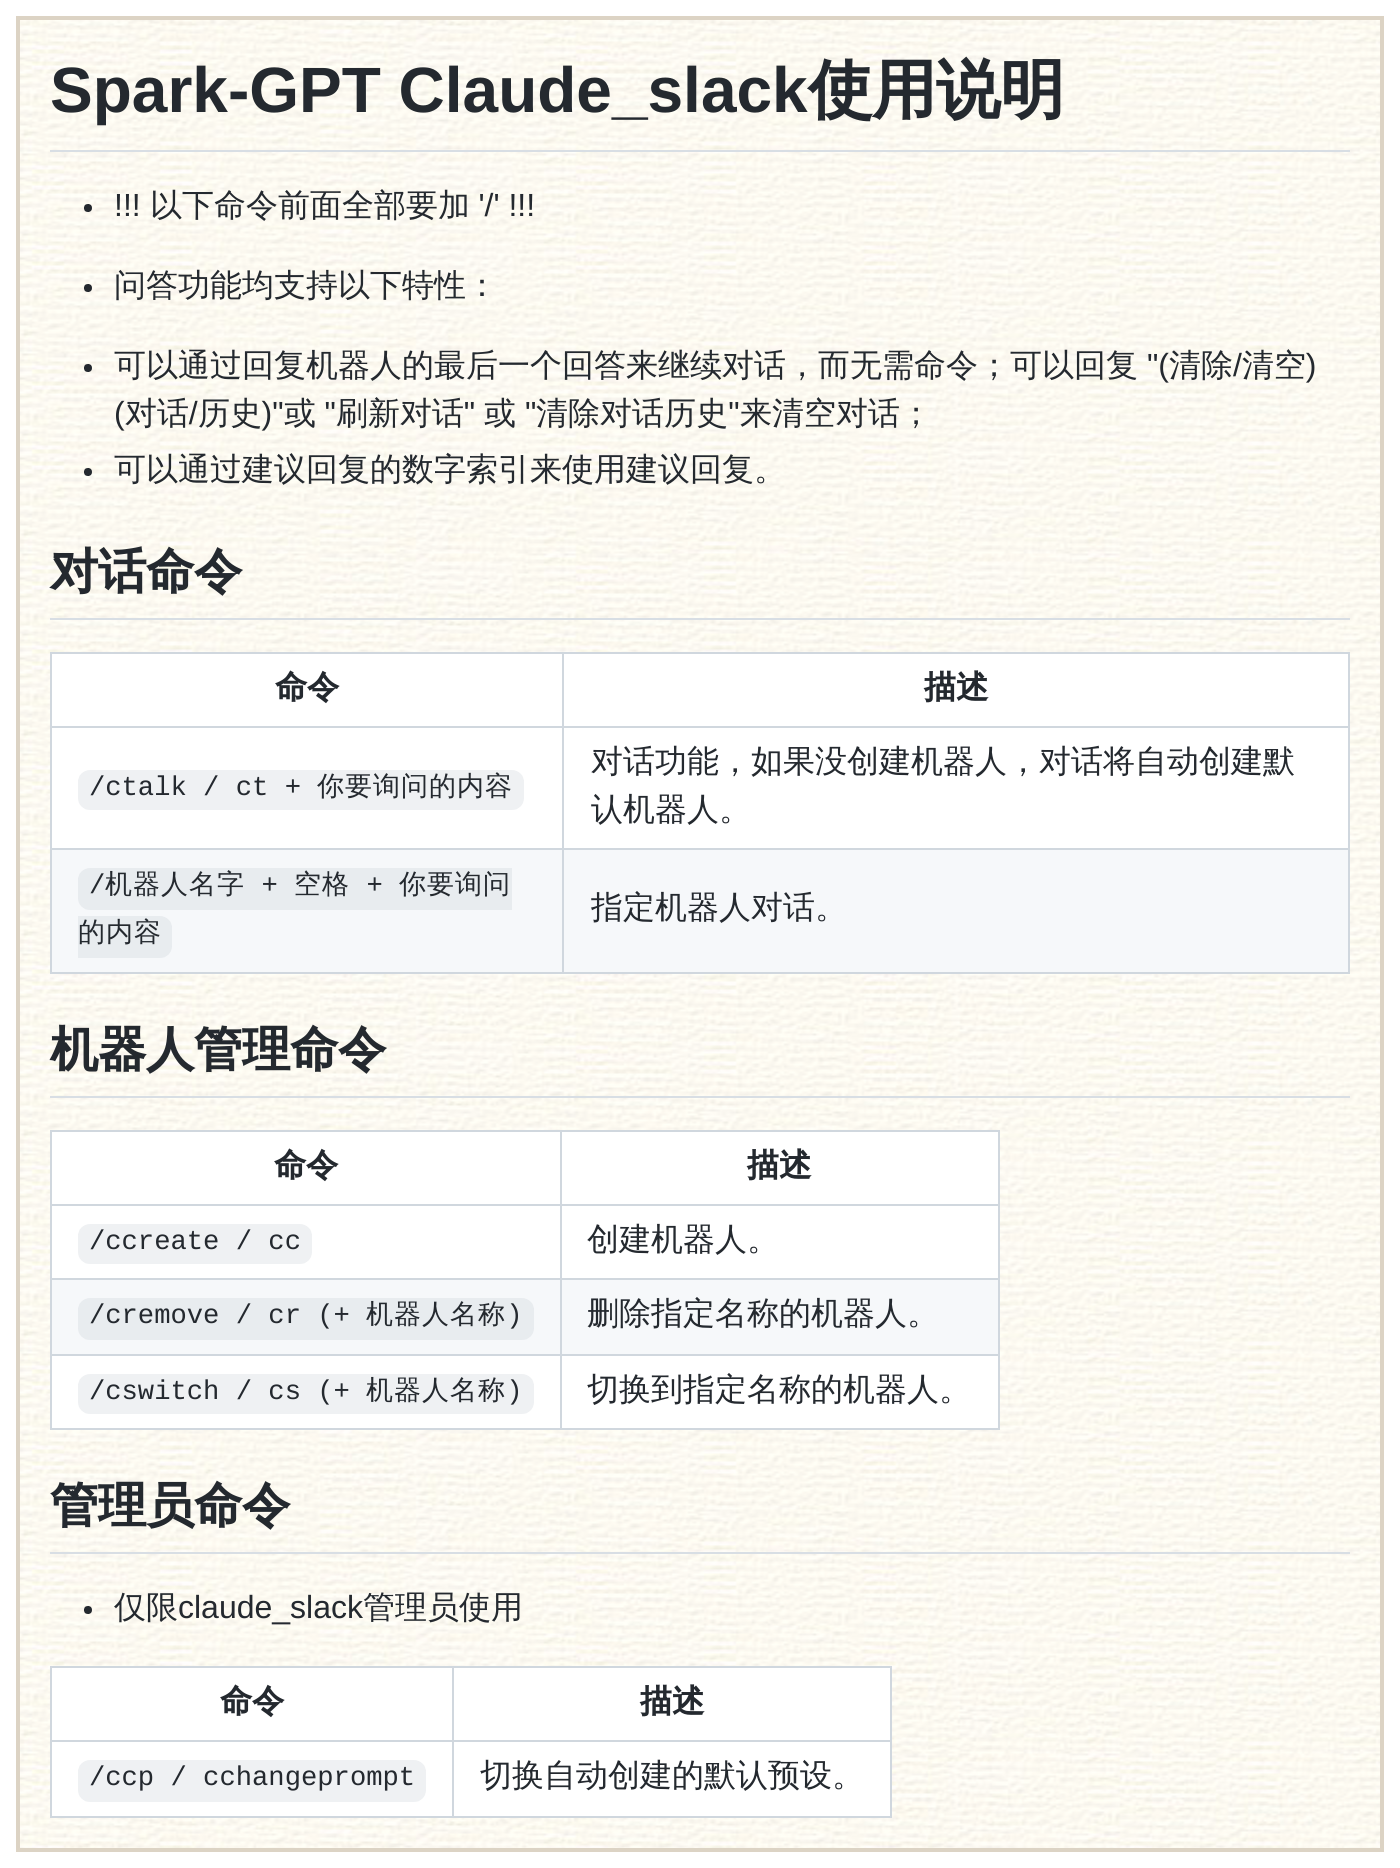
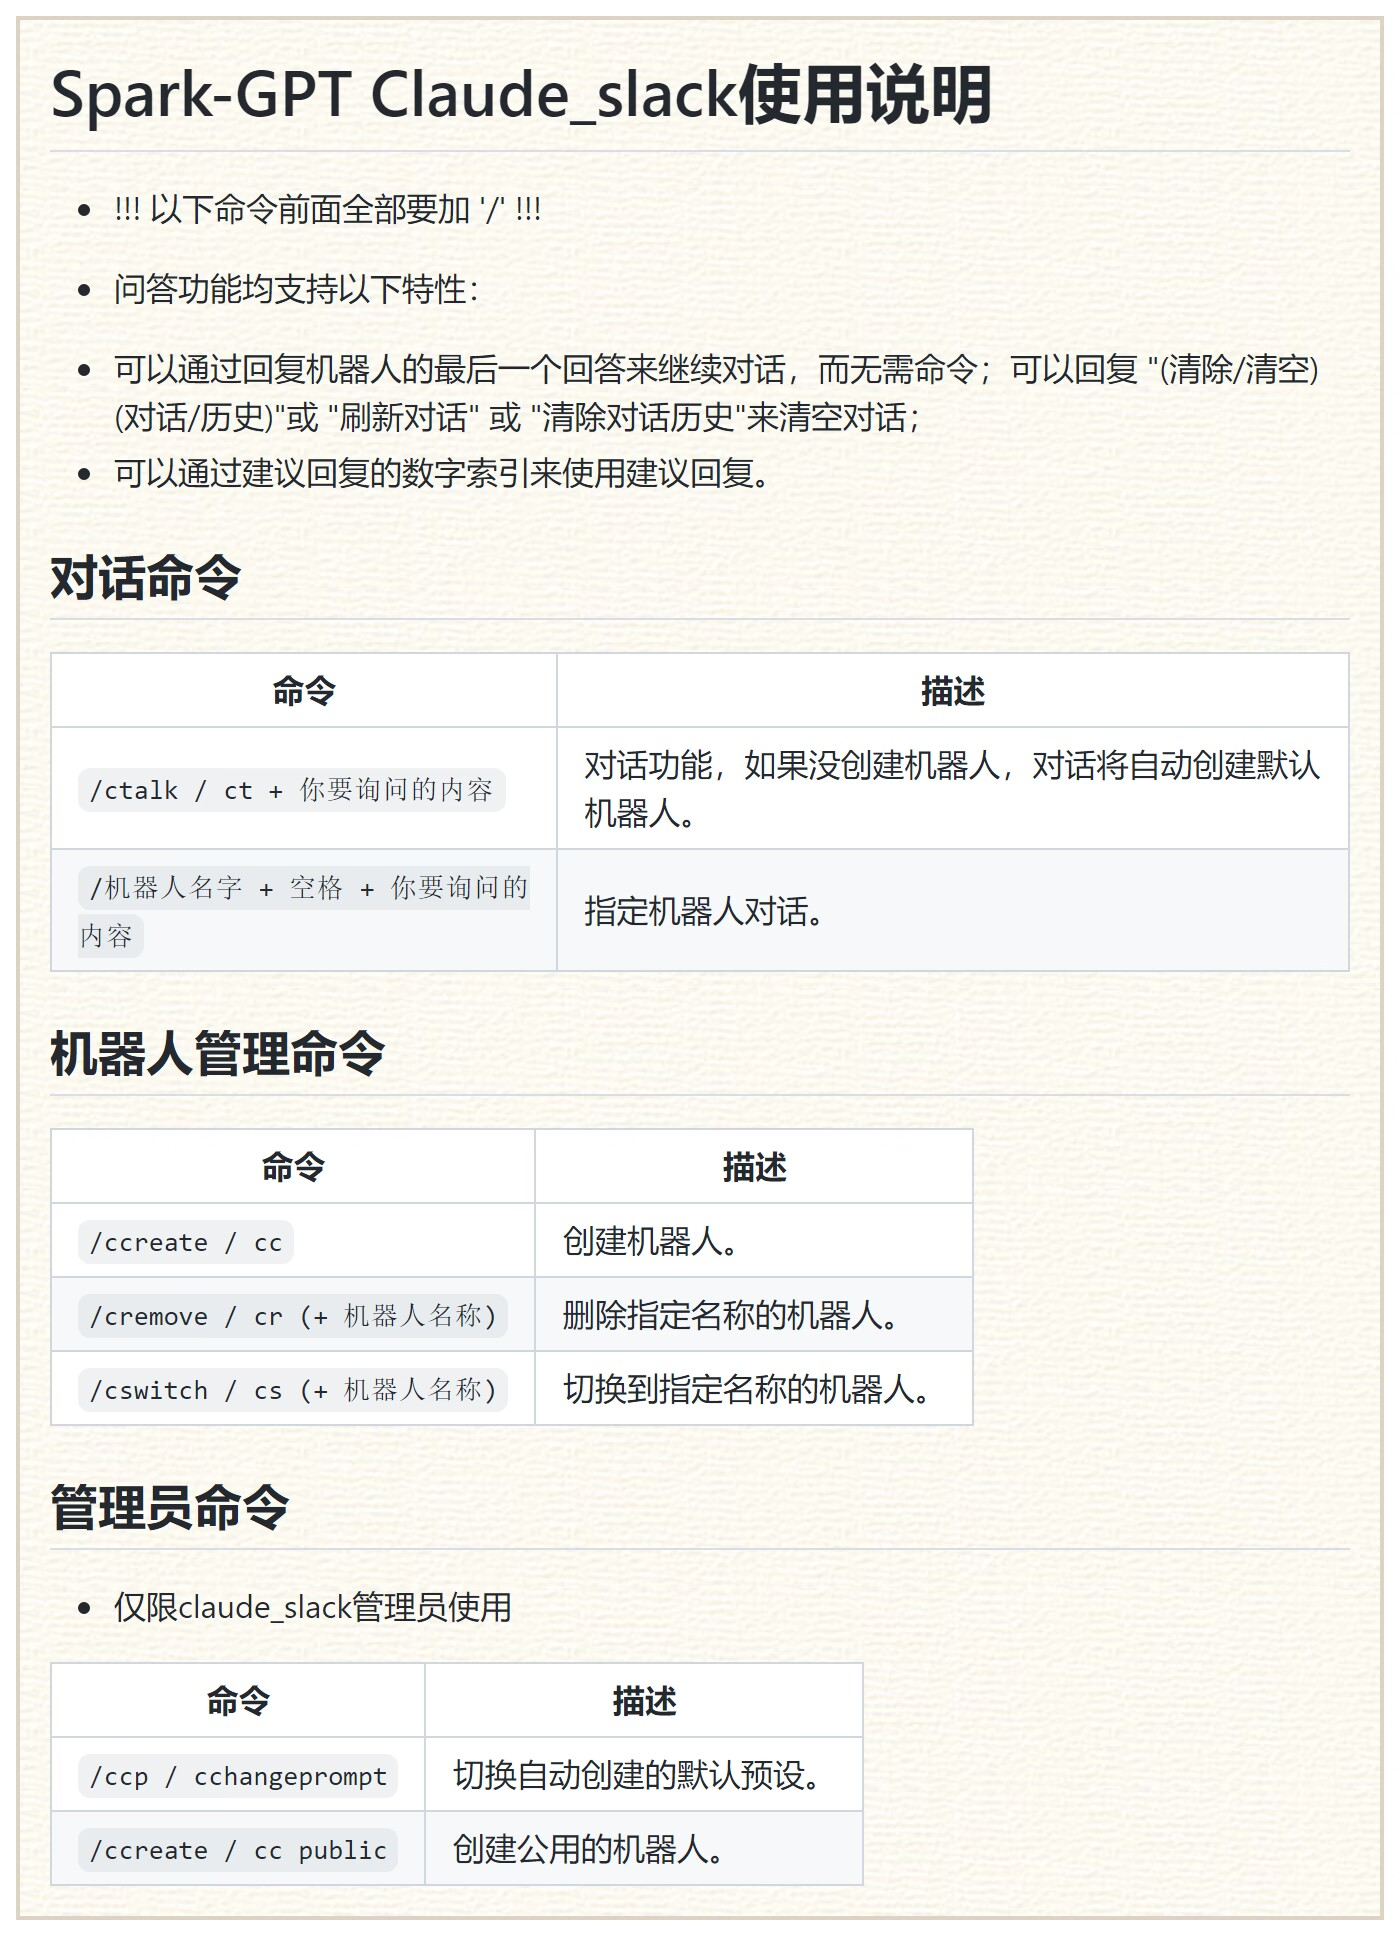
update

diff --git a/src/docs/Spark_GPT.md b/src/docs/Spark_GPT.md
@@ -71,7 +71,10 @@ copyright: canxin121版权所属，禁止随意转载
 
 | 命令 | 描述 |
 | --- | --- |
-| `/botlist / bl` | 获取你的所有机器人的列表。 |
+| `/bot列表 / botlist / bl` | 获取你的所有机器人的列表。 |
+| `/bot信息 / botinfo / bi + 名字` | 获取你的机器人的详细信息。 |
+| `/bot更改 / botchange / bc + 名字` | 更改你的机器人的信息。 |
+| `/共享bot列表 / sharebotlist / sbl` | 获取所有共享机器人的列表。 |
 
 - 只有Spark-GPT管理员可以使用
 
@@ -79,6 +82,8 @@ copyright: canxin121版权所属，禁止随意转载
 | --- | --- |
 | `/添加预设 / ap` | 添加通用预设 |
 | `/删除预设 / rp` | 删除通用预设 |
+| `/sbr / sharebotremove + 名字` | 删除共享机器人 |
+| `/sbc / sharebotchange + 名字` | 更改共享机器人 |
 
 ### spark-gpt Poe使用说明
 
@@ -125,7 +130,9 @@ copyright: canxin121版权所属，禁止随意转载
 
 | 命令 | 描述 |
 | --- | --- |
+| `/repoe / poe重启` | 手动重启poe client。(当出错后没自动重启成功时可以使用) |
 | `/poechangeprompt / 切换自动预设 / pcp` | 切换自动创建的默认预设。 |
+| `/poecreate / pc public` | 创建共享的机器人。 |
 
 ### spark-gpt NewBing使用说明
 
@@ -180,7 +187,7 @@ copyright: canxin121版权所属，禁止随意转载
 
 #### 管理员命令
 
-> 仅限GPT_web使用
+> 仅限GPT_web管理员使用
 
 | 命令 | 描述 |
 | --- | --- |
@@ -210,6 +217,7 @@ copyright: canxin121版权所属，禁止随意转载
 | 命令 | 描述 |
 | --- | --- |
 | `/ccp / cchangeprompt` | 切换自动创建的默认预设。 |
+| `/ccreate / cc  public` | 创建公用的机器人。 |
 
 ### spark-gpt Spark_desk使用说明
 
@@ -487,6 +495,13 @@ bard_urlable = True
 
 ## :balloon:更新:balloon:
 
+- 2023.5.17 0.1.9:  
+    1.增加共享机器人
+    2.增加查看，修改机器人功能
+    3.修复路径问题
+    4.修复poe http创建时的模型索引错误问题
+- 2023.5.13 0.1.8:  
+    1.增加poe http版出错后自动重启poe客户端
 - 2023.5.13 0.1.7:  
     1.增加一些配置项
     2.poe增加http api版本
